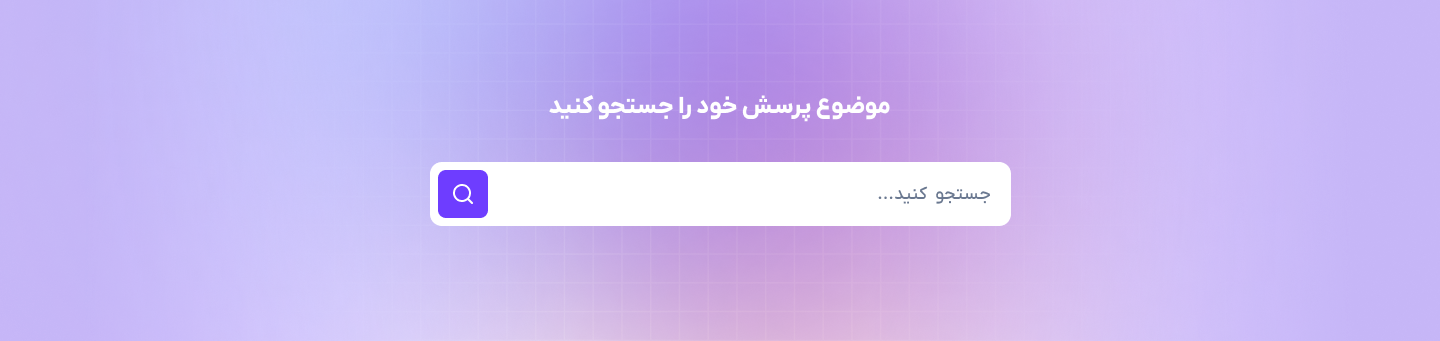
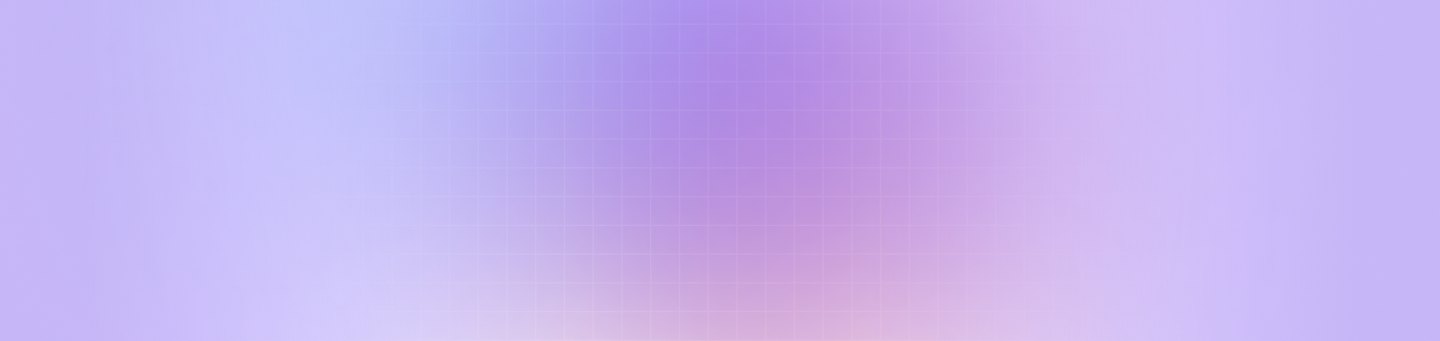
add contact-ua

Changed region(s): [[0.2812, 0.4692, 0.7188, 0.6745], [0.375, 0.2933, 0.625, 0.3519]]

diff --git a/src/app/(user)/about-us/page.tsx b/src/app/(user)/about-us/page.tsx
@@ -1,0 +1,159 @@
+import React, { ReactNode } from 'react';
+import Message from '@/../public/images/message.png';
+import Image from 'next/image';
+import Title from '@/components/common/Title';
+import Textarea from '@/components/common/form/Textarea';
+import Input from '@/components/common/form/Input';
+import Button from '@/components/common/Button';
+const contact = [
+  {
+    title: 'تماس',
+    content: '09123456789',
+    subContent: 'در روزهای کاری ساعت 9 الی 17 ، از طریق تماس تلفنی در ارتباط باشید',
+    icon: (
+      <svg
+        width="32"
+        height="32"
+        viewBox="0 0 32 32"
+        fill="none"
+        xmlns="http://www.w3.org/2000/svg"
+      >
+        <path
+          d="M20.0672 6.66927C21.3695 6.92336 22.5664 7.56028 23.5046 8.49852C24.4429 9.43676 25.0798 10.6336 25.3339 11.9359M20.0672 1.33594C22.7729 1.63652 25.296 2.84817 27.2222 4.77195C29.1484 6.69573 30.3632 9.21728 30.6672 11.9226M29.3339 22.5626V26.5626C29.3354 26.9339 29.2593 27.3015 29.1106 27.6417C28.9618 27.982 28.7436 28.2874 28.47 28.5384C28.1964 28.7895 27.8733 28.9806 27.5216 29.0995C27.1698 29.2185 26.7971 29.2627 26.4272 29.2293C22.3243 28.7835 18.3832 27.3815 14.9206 25.1359C11.699 23.0888 8.96768 20.3575 6.92056 17.1359C4.6672 13.6575 3.26489 9.69726 2.82723 5.57594C2.79391 5.20723 2.83773 4.83562 2.9559 4.48477C3.07406 4.13392 3.26399 3.81152 3.51358 3.5381C3.76318 3.26468 4.06697 3.04622 4.40562 2.89663C4.74426 2.74705 5.11035 2.66962 5.48056 2.66927H9.48056C10.1276 2.6629 10.755 2.89204 11.2456 3.31398C11.7362 3.73592 12.0567 4.32187 12.1472 4.9626C12.3161 6.24269 12.6292 7.49957 13.0806 8.70927C13.26 9.1865 13.2988 9.70516 13.1924 10.2038C13.0861 10.7024 12.839 11.1601 12.4806 11.5226L10.7872 13.2159C12.6853 16.554 15.4492 19.3179 18.7872 21.2159L20.4806 19.5226C20.8431 19.1641 21.3008 18.9171 21.7994 18.8107C22.298 18.7044 22.8167 18.7432 23.2939 18.9226C24.5036 19.374 25.7605 19.6871 27.0406 19.8559C27.6883 19.9473 28.2798 20.2735 28.7026 20.7726C29.1254 21.2717 29.3501 21.9087 29.3339 22.5626Z"
+          stroke="#6E3DFF"
+          stroke-width="2"
+          stroke-linecap="round"
+          stroke-linejoin="round"
+        />
+      </svg>
+    ),
+  },
+  {
+    title: 'تیکت',
+    content: 'پشتیبانی بهتر و سریع تر در ارسال تیکت',
+    icon: (
+      <svg
+        width="36"
+        height="36"
+        viewBox="0 0 36 36"
+        fill="none"
+        xmlns="http://www.w3.org/2000/svg"
+      >
+        <path
+          d="M11.9993 16.5C11.7026 16.5 11.4126 16.588 11.166 16.7528C10.9193 16.9176 10.727 17.1519 10.6135 17.426C10.5 17.7001 10.4703 18.0017 10.5281 18.2926C10.586 18.5836 10.7289 18.8509 10.9387 19.0607C11.1484 19.2704 11.4157 19.4133 11.7067 19.4712C11.9976 19.5291 12.2992 19.4994 12.5733 19.3858C12.8474 19.2723 13.0817 19.08 13.2465 18.8334C13.4113 18.5867 13.4993 18.2967 13.4993 18C13.4993 17.6022 13.3413 17.2206 13.06 16.9393C12.7787 16.658 12.3971 16.5 11.9993 16.5ZM17.9993 16.5C17.7026 16.5 17.4126 16.588 17.166 16.7528C16.9193 16.9176 16.727 17.1519 16.6135 17.426C16.5 17.7001 16.4703 18.0017 16.5281 18.2926C16.586 18.5836 16.7289 18.8509 16.9387 19.0607C17.1484 19.2704 17.4157 19.4133 17.7067 19.4712C17.9976 19.5291 18.2992 19.4994 18.5733 19.3858C18.8474 19.2723 19.0817 19.08 19.2465 18.8334C19.4113 18.5867 19.4993 18.2967 19.4993 18C19.4993 17.6022 19.3413 17.2206 19.06 16.9393C18.7787 16.658 18.3971 16.5 17.9993 16.5ZM23.9993 16.5C23.7026 16.5 23.4126 16.588 23.166 16.7528C22.9193 16.9176 22.727 17.1519 22.6135 17.426C22.5 17.7001 22.4703 18.0017 22.5281 18.2926C22.586 18.5836 22.7289 18.8509 22.9387 19.0607C23.1484 19.2704 23.4157 19.4133 23.7067 19.4712C23.9976 19.5291 24.2992 19.4994 24.5733 19.3858C24.8474 19.2723 25.0817 19.08 25.2465 18.8334C25.4113 18.5867 25.4993 18.2967 25.4993 18C25.4993 17.6022 25.3413 17.2206 25.06 16.9393C24.7787 16.658 24.3971 16.5 23.9993 16.5ZM17.9993 3C16.0295 3 14.0789 3.38799 12.2591 4.14181C10.4392 4.89563 8.78559 6.00052 7.39271 7.3934C4.57966 10.2064 2.99931 14.0218 2.99931 18C2.9862 21.4637 4.1855 24.8228 6.38931 27.495L3.38931 30.495C3.18117 30.7059 3.04018 30.9738 2.98412 31.2648C2.92806 31.5558 2.95944 31.8568 3.07431 32.13C3.1989 32.3999 3.40087 32.6267 3.65458 32.7816C3.90829 32.9365 4.20231 33.0125 4.49931 33H17.9993C21.9776 33 25.7929 31.4196 28.6059 28.6066C31.419 25.7936 32.9993 21.9782 32.9993 18C32.9993 14.0218 31.419 10.2064 28.6059 7.3934C25.7929 4.58035 21.9776 3 17.9993 3ZM17.9993 30H8.11431L9.50931 28.605C9.65104 28.4661 9.7638 28.3004 9.84104 28.1176C9.91829 27.9348 9.95849 27.7385 9.95931 27.54C9.95367 27.1443 9.79193 26.7669 9.50931 26.49C7.54519 24.5281 6.32207 21.9458 6.04835 19.1832C5.77462 16.4206 6.46722 13.6485 8.00815 11.3393C9.54908 9.03006 11.843 7.32654 14.4991 6.51896C17.1552 5.71138 20.0091 5.84971 22.5746 6.91037C25.1402 7.97103 27.2586 9.88841 28.569 12.3358C29.8793 14.7833 30.3006 17.6093 29.761 20.3325C29.2214 23.0557 27.7543 25.5076 25.6096 27.2704C23.465 29.0332 20.7755 29.9978 17.9993 30Z"
+          fill="#6E3DFF"
+        />
+      </svg>
+    ),
+  },
+  {
+    title: 'ایمیل',
+    content: 'info@elienglish.com',
+    icon: (
+      <svg
+        width="30"
+        height="24"
+        viewBox="0 0 30 24"
+        fill="none"
+        xmlns="http://www.w3.org/2000/svg"
+      >
+        <path
+          d="M25.5 0H4.5C3.30653 0 2.16193 0.474106 1.31802 1.31802C0.474106 2.16193 0 3.30653 0 4.5V19.5C0 20.6935 0.474106 21.8381 1.31802 22.682C2.16193 23.5259 3.30653 24 4.5 24H25.5C26.6935 24 27.8381 23.5259 28.682 22.682C29.5259 21.8381 30 20.6935 30 19.5V4.5C30 3.30653 29.5259 2.16193 28.682 1.31802C27.8381 0.474106 26.6935 0 25.5 0ZM4.5 3H25.5C25.8978 3 26.2794 3.15804 26.5607 3.43934C26.842 3.72064 27 4.10218 27 4.5L15 11.82L3 4.5C3 4.10218 3.15804 3.72064 3.43934 3.43934C3.72064 3.15804 4.10218 3 4.5 3ZM27 19.5C27 19.8978 26.842 20.2794 26.5607 20.5607C26.2794 20.842 25.8978 21 25.5 21H4.5C4.10218 21 3.72064 20.842 3.43934 20.5607C3.15804 20.2794 3 19.8978 3 19.5V7.92L14.22 14.775C14.448 14.9067 14.7067 14.976 14.97 14.976C15.2333 14.976 15.492 14.9067 15.72 14.775L27 7.92V19.5Z"
+          fill="#6E3DFF"
+        />
+      </svg>
+    ),
+  },
+  {
+    title: 'سوالات متداول',
+    content: 'پاسخ های خود را سریع تر پیدا کنید',
+    icon: (
+      <svg
+        width="36"
+        height="36"
+        viewBox="0 0 36 36"
+        fill="none"
+        xmlns="http://www.w3.org/2000/svg"
+      >
+        <path
+          d="M22.1562 8.805C22.5006 9.00056 22.9084 9.05196 23.2906 8.94798C23.6728 8.84401 23.9983 8.5931 24.1962 8.25C24.3599 7.96103 24.615 7.73459 24.9213 7.60617C25.2276 7.47775 25.5678 7.45463 25.8887 7.54042C26.2095 7.62621 26.4929 7.81607 26.6942 8.08022C26.8955 8.34437 27.0035 8.66787 27.0012 9C27.0012 9.39782 26.8432 9.77935 26.5618 10.0607C26.2805 10.342 25.899 10.5 25.5012 10.5C25.1034 10.5 24.7218 10.658 24.4405 10.9393C24.1592 11.2206 24.0012 11.6022 24.0012 12C24.0012 12.3978 24.1592 12.7794 24.4405 13.0607C24.7218 13.342 25.1034 13.5 25.5012 13.5C26.291 13.4995 27.0667 13.2911 27.7505 12.8959C28.4342 12.5006 29.0019 11.9323 29.3965 11.2481C29.7911 10.564 29.9986 9.78799 29.9983 8.9982C29.998 8.2084 29.7898 7.4326 29.3947 6.74875C28.9996 6.0649 28.4314 5.49708 27.7474 5.10234C27.0633 4.70761 26.2874 4.49987 25.4976 4.5C24.7078 4.50013 23.9319 4.70811 23.248 5.10307C22.564 5.49802 21.9961 6.06602 21.6012 6.75C21.502 6.9212 21.4377 7.11033 21.4119 7.3065C21.3861 7.50267 21.3994 7.70199 21.451 7.893C21.5026 8.08401 21.5915 8.26293 21.7125 8.41945C21.8335 8.57597 21.9843 8.707 22.1562 8.805ZM28.6062 19.5C28.2124 19.4489 27.8145 19.556 27.4996 19.7978C27.1847 20.0396 26.9785 20.3964 26.9262 20.79C26.6114 23.3327 25.3778 25.6726 23.4576 27.369C21.5375 29.0654 19.0633 30.0011 16.5012 30H8.11619L9.09119 29.025C9.37056 28.744 9.52738 28.3638 9.52738 27.9675C9.52738 27.5712 9.37056 27.191 9.09119 26.91C7.62861 25.4417 6.63326 23.5734 6.23053 21.5404C5.82779 19.5074 6.03567 17.4008 6.82798 15.4857C7.6203 13.5707 8.96161 11.933 10.683 10.7788C12.4043 9.62469 14.4287 9.00576 16.5012 9C16.899 9 17.2805 8.84196 17.5618 8.56066C17.8432 8.27935 18.0012 7.89782 18.0012 7.5C18.0012 7.10217 17.8432 6.72064 17.5618 6.43934C17.2805 6.15803 16.899 6 16.5012 6C13.965 6.01058 11.4832 6.73535 9.33988 8.09129C7.19661 9.44723 5.47863 11.3795 4.38278 13.6667C3.28693 15.9539 2.85752 18.5035 3.14375 21.0235C3.42999 23.5435 4.42028 25.9318 6.00119 27.915L3.43619 30.435C3.22805 30.6459 3.08705 30.9138 3.03099 31.2048C2.97493 31.4958 3.00632 31.7968 3.12119 32.07C3.23372 32.3439 3.42481 32.5784 3.67039 32.7439C3.91597 32.9094 4.20505 32.9985 4.50119 33H16.5012C19.7884 33.0004 22.9628 31.8015 25.4289 29.6281C27.895 27.4547 29.4835 24.4562 29.8962 21.195C29.9236 20.9989 29.9119 20.7993 29.8618 20.6077C29.8117 20.4161 29.7242 20.2363 29.6043 20.0788C29.4844 19.9212 29.3344 19.7889 29.1631 19.6896C28.9918 19.5902 28.8025 19.5258 28.6062 19.5ZM26.0712 15.105C25.7981 14.9842 25.4952 14.9476 25.2012 15L24.9312 15.09L24.6612 15.225L24.4362 15.42C24.3013 15.5582 24.1943 15.7212 24.1212 15.9C24.0325 16.0871 23.9913 16.2932 24.0012 16.5C23.9968 16.7001 24.0325 16.899 24.1062 17.085C24.1838 17.265 24.2959 17.4281 24.4362 17.565C24.5763 17.704 24.7426 17.814 24.9253 17.8887C25.1081 17.9633 25.3038 18.0011 25.5012 18C25.899 18 26.2805 17.842 26.5618 17.5607C26.8432 17.2794 27.0012 16.8978 27.0012 16.5C27.0063 16.3032 26.9652 16.108 26.8812 15.93C26.72 15.5696 26.4316 15.2812 26.0712 15.12V15.105Z"
+          fill="#6E3DFF"
+        />
+      </svg>
+    ),
+  },
+];
+const page = () => {
+  return (
+    <div className="relative mb-32 lg:!pt-[5.1rem]">
+      <div className="pt-[25rem]">
+        <div className="bg-contact-us absolute top-0 z-50 h-[672px] w-full lg:top-20"></div>
+        <div className="container_page relative z-50 rounded-lg bg-white p-3 lg:px-14">
+          <div className="flex items-center justify-between">
+            <div>
+              <p className="font-bold text-[16px] text-main lg:text-[32px]">تماس با الی انگلیش</p>
+              <p className="font-medium text-[#263248]">از مسیر های زیر با ما در ارتباط باشید.</p>
+            </div>
+            <span className="-mt-20 hidden lg:block">
+              <Image src={Message} alt="" />
+            </span>
+          </div>
+          <div className="mt-10 grid gap-5 lg:mt-0 lg:grid-cols-2">
+            {contact.map((item, idx) => (
+              <CardContactUs contact={item} key={idx} />
+            ))}
+          </div>
+          <div className="pt-20">
+            <p className="font-medium text-[#0B1524]">
+              با پر کردن فرم زیر کارشناسان ما در کمترین زمان ممکن با شما تماس خواهند گرفت.
+            </p>
+            <div className="mt-10 rounded-lg border border-gray-100 p-4 pt-10 drop-shadow-sm lg:mt-0">
+              <Title title="فرم تماس با ما" />
+              <form className="pt-5">
+                <div className="grid gap-4 lg:grid-cols-2">
+                  <div className="grid gap-4 lg:grid-cols-2">
+                    <Input label={'نام'} />
+                    <Input label={'نامخانوادگی'} />
+                    <Input label={'آدرس ایمیل'} />
+                    <Input label={'شماره تماس'} />
+                  </div>
+                  <div>
+                    <Textarea classNameInput="!h-[160px]" label={'متن پیام'} />
+                  </div>
+                </div>
+                <div className="mt-5 flex justify-end">
+                  <Button className="bg-main text-white lg:w-[120px]">ارسال پیام</Button>
+                </div>
+              </form>
+            </div>
+          </div>
+        </div>
+      </div>
+    </div>
+  );
+};
+
+const CardContactUs = ({
+  contact,
+}: {
+  contact: { icon: ReactNode; title: string; content: string; subContent?: string };
+}) => {
+  return (
+    <div className="flex items-start gap-3">
+      <div className="flex h-[50px] min-h-[50px] w-[50px] min-w-[50px] items-center justify-center rounded-lg bg-[#E5EAEF]">
+        {contact.icon}
+      </div>
+      <div>
+        <p className="font-extrabold text-[16px] text-[#33435A] lg:text-[28px]">{contact.title}</p>
+        <p className="font-medium text-[12px] text-main lg:text-[16px]">{contact.content}</p>
+        {contact.subContent && (
+          <p className="font-medium text-[12px] text-[#6A7890] lg:text-[16px]">
+            {contact.subContent}
+          </p>
+        )}
+      </div>
+    </div>
+  );
+};
+
+export default page;

diff --git a/src/components/common/header/Header.tsx b/src/components/common/header/Header.tsx
@@ -189,6 +189,37 @@ const quickLicks = [
     ),
     src: '/contact-us',
   },
+  {
+    name: 'سوالات متداول',
+    icon: (
+      <svg
+        width="24"
+        height="24"
+        viewBox="0 0 24 24"
+        fill="none"
+        xmlns="http://www.w3.org/2000/svg"
+      >
+        <path
+          d="M17.62 10.75C17.19 10.75 16.85 10.4 16.85 9.97998C16.85 9.60998 16.48 8.83998 15.86 8.16998C15.25 7.51998 14.58 7.13998 14.02 7.13998C13.59 7.13998 13.25 6.78998 13.25 6.36998C13.25 5.94998 13.6 5.59998 14.02 5.59998C15.02 5.59998 16.07 6.13998 16.99 7.10998C17.85 8.01998 18.4 9.14998 18.4 9.96998C18.4 10.4 18.05 10.75 17.62 10.75Z"
+          fill="#7D8793"
+        />
+        <path
+          d="M21.23 10.75C20.8 10.75 20.46 10.4 20.46 9.98C20.46 6.43 17.57 3.55 14.03 3.55C13.6 3.55 13.26 3.2 13.26 2.78C13.26 2.36 13.6 2 14.02 2C18.42 2 22 5.58 22 9.98C22 10.4 21.65 10.75 21.23 10.75Z"
+          fill="#7D8793"
+        />
+        <path
+          opacity="0.4"
+          d="M11.79 14.21L8.52 17.48C8.16 17.16 7.81 16.83 7.47 16.49C6.44 15.45 5.51 14.36 4.68 13.22C3.86 12.08 3.2 10.94 2.72 9.81C2.24 8.67 2 7.58 2 6.54C2 5.86 2.12 5.21 2.36 4.61C2.6 4 2.98 3.44 3.51 2.94C4.15 2.31 4.85 2 5.59 2C5.87 2 6.15 2.06 6.4 2.18C6.66 2.3 6.89 2.48 7.07 2.74L9.39 6.01C9.57 6.26 9.7 6.49 9.79 6.71C9.88 6.92 9.93 7.13 9.93 7.32C9.93 7.56 9.86 7.8 9.72 8.03C9.59 8.26 9.4 8.5 9.16 8.74L8.4 9.53C8.29 9.64 8.24 9.77 8.24 9.93C8.24 10.01 8.25 10.08 8.27 10.16C8.3 10.24 8.33 10.3 8.35 10.36C8.53 10.69 8.84 11.12 9.28 11.64C9.73 12.16 10.21 12.69 10.73 13.22C11.09 13.57 11.44 13.91 11.79 14.21Z"
+          fill="#7D8793"
+        />
+        <path
+          d="M21.9701 18.33C21.9701 18.61 21.9201 18.9 21.8201 19.18C21.7901 19.26 21.7601 19.34 21.7201 19.42C21.5501 19.78 21.3301 20.12 21.0401 20.44C20.5501 20.98 20.0101 21.37 19.4001 21.62C19.3901 21.62 19.3801 21.63 19.3701 21.63C18.7801 21.87 18.1401 22 17.4501 22C16.4301 22 15.3401 21.76 14.1901 21.27C13.0401 20.78 11.8901 20.12 10.7501 19.29C10.3601 19 9.9701 18.71 9.6001 18.4L12.8701 15.13C13.1501 15.34 13.4001 15.5 13.6101 15.61C13.6601 15.63 13.7201 15.66 13.7901 15.69C13.8701 15.72 13.9501 15.73 14.0401 15.73C14.2101 15.73 14.3401 15.67 14.4501 15.56L15.2101 14.81C15.4601 14.56 15.7001 14.37 15.9301 14.25C16.1601 14.11 16.3901 14.04 16.6401 14.04C16.8301 14.04 17.0301 14.08 17.2501 14.17C17.4701 14.26 17.7001 14.39 17.9501 14.56L21.2601 16.91C21.5201 17.09 21.7001 17.3 21.8101 17.55C21.9101 17.8 21.9701 18.05 21.9701 18.33Z"
+          fill="#7D8793"
+        />
+      </svg>
+    ),
+    src: '/faq',
+  },
 ];
 
 // const profilePages = ['/category', '/home', '/address', '/checkout', '/profile'];

diff --git a/src/app/(user)/faq/page.tsx b/src/app/(user)/faq/page.tsx
@@ -1,11 +1,46 @@
+import Input from '@/components/common/form/Input';
 import Categories from '@/components/faq/Categories';
 import FrequentlyAskedQuestions from '@/components/faq/FrequentlyAskedQuestions';
 import React from 'react';
 
 const Page = () => {
   return (
-    <div className="lg:pt-32">
-      <div className="lg:container_page flex flex-col gap-10 lg:gap-[100px]">
+    <div className="mb-32 lg:pt-[5.1rem]">
+      <div className="bg-faq flex h-[341px] w-full flex-col items-center justify-center">
+        <p className="font-extrabold text-[24px] text-white">موضوع پرسش خود را جستجو کنید</p>
+        <Input
+          className="mt-4 !w-[600px]"
+          classNameInput={'!bg-white pl-2'}
+          placeholder="جستجو کنید"
+          endContent={
+            <svg
+              width="50"
+              height="48"
+              viewBox="0 0 50 48"
+              fill="none"
+              xmlns="http://www.w3.org/2000/svg"
+            >
+              <rect width="50" height="48" rx="8" fill="#6E3DFF" />
+              <path
+                d="M24 31C28.4183 31 32 27.4183 32 23C32 18.5817 28.4183 15 24 15C19.5817 15 16 18.5817 16 23C16 27.4183 19.5817 31 24 31Z"
+                stroke="white"
+                stroke-width="2"
+                stroke-linecap="round"
+                stroke-linejoin="round"
+              />
+              <path
+                d="M33.9984 32.9984L29.6484 28.6484"
+                stroke="white"
+                stroke-width="2"
+                stroke-linecap="round"
+                stroke-linejoin="round"
+              />
+            </svg>
+          }
+          isClear
+        />
+      </div>
+      <div className="lg:container_page mt-10 flex flex-col gap-10 lg:gap-[100px]">
         <Categories categories={[]} />
         <FrequentlyAskedQuestions />
       </div>

diff --git a/src/app/globals.css b/src/app/globals.css
@@ -187,3 +187,11 @@ hr {
 .drop_shadow_faq {
   box-shadow: 0px 2px 32px 0px #1c1c1c0f;
 }
+
+.bg-faq {
+  background-image: url('../../public/images/faq-desktop.png');
+}
+
+.bg-contact-us {
+  background-image: url('../../public/images/bg-contact-us.png');
+}
